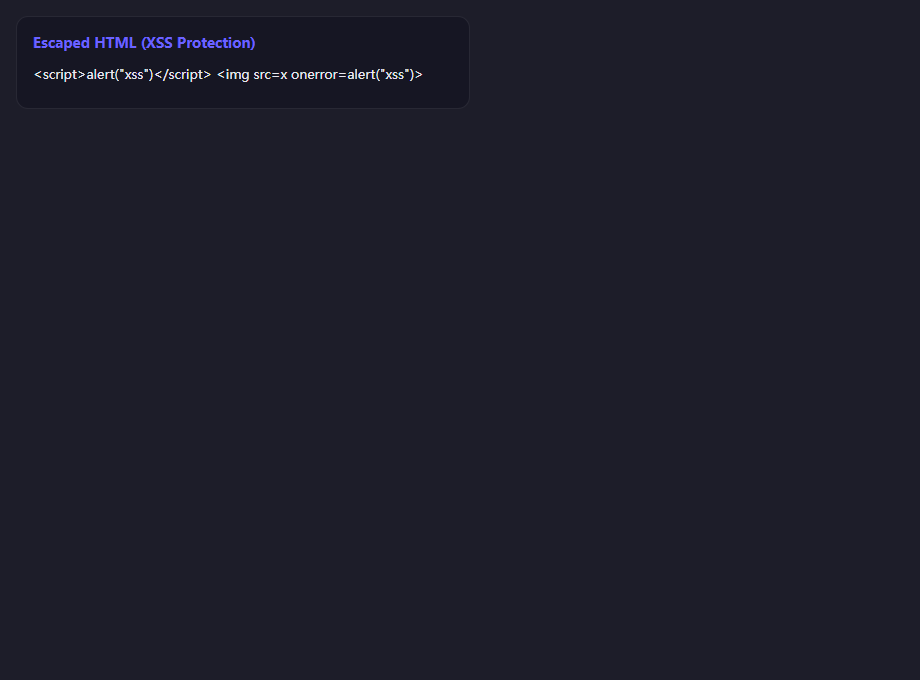
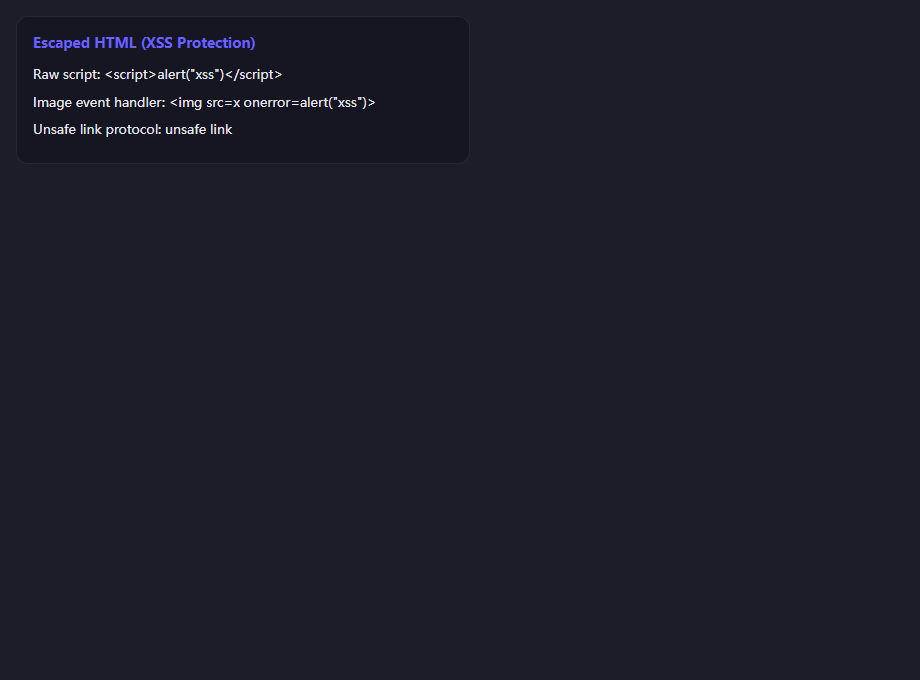
docs: refresh markdown security evidence

Changed region(s): [[0.0304, 0.0926, 0.4565, 0.2162]]

diff --git a/docs/superpowers/verification/2026-06-14-issue-2.md b/docs/superpowers/verification/2026-06-14-issue-2.md
@@ -2,7 +2,7 @@
 
 ## Status
 
-PASS WITH SCREENSHOT REFRESH CONCERN
+PASS
 
 ## TDD Evidence
 
@@ -39,10 +39,19 @@ Result: <p><span>x</span></p>
 
 | Screenshot | Dimensions | Bytes | Last modified | Description |
 | --- | --- | --- | --- | --- |
-| docs/superpowers/verification/issue-2/markdown-panel.png | 920x680 | 18497 | 2026-06-15 10:09:30 +08:00 | Existing normal markdown rendering evidence |
-| docs/superpowers/verification/issue-2/malicious-html-escaped.png | 920x680 | 10408 | 2026-06-15 10:09:30 +08:00 | Existing escaped HTML evidence |
+| docs/superpowers/verification/issue-2/markdown-panel.png | 920x680 | 18410 | 2026-06-15 15:17:38 +08:00 | Refreshed normal markdown rendering evidence |
+| docs/superpowers/verification/issue-2/malicious-html-escaped.png | 920x680 | 13834 | 2026-06-15 15:17:39 +08:00 | Refreshed escaped HTML and unsafe link evidence |
 
-The Electron capture attempt started at 2026-06-15 11:15 +08:00 but did not exit and did not update either PNG. Its isolated process tree was terminated. The capture payload now includes raw `<script>`, `<img onerror>`, and an unsafe Markdown link, but refreshed visual evidence remains outstanding.
+```
+npx electron scripts/capture-markdown-evidence.mjs
+Result: PASS, exited 0
+Saved: docs/superpowers/verification/issue-2/markdown-panel.png
+  Size: 18410 bytes, Dimensions: 920x680
+Saved: docs/superpowers/verification/issue-2/malicious-html-escaped.png
+  Size: 13834 bytes, Dimensions: 920x680
+```
+
+The malicious screenshot payload includes raw `<script>`, raw `<img onerror>`, and `[unsafe link](javascript:alert(1))`. Visual inspection confirmed the raw HTML is displayed as text and `unsafe link` is rendered as plain non-link text. The renderer probe printed `<p><span>x</span></p>`, confirming the unsafe Markdown link label remains visible without `href` or `javascript:`.
 
 ## Supported Subset Confirmed
 
@@ -62,15 +71,6 @@ The Electron capture attempt started at 2026-06-15 11:15 +08:00 but did not exit
 ## Changed Files
 
 - docs/superpowers/verification/2026-06-14-issue-2.md
-- docs/superpowers/verification/issue-2/SCREENSHOT-GUIDE.md
-- docs/superpowers/verification/issue-2/demo.html
-- docs/superpowers/verification/issue-2/full-screen.png
 - docs/superpowers/verification/issue-2/malicious-html-escaped.png
 - docs/superpowers/verification/issue-2/markdown-panel.png
 - scripts/capture-markdown-evidence.mjs
-- src/main/markdown-renderer.js
-- src/renderer/chat/style.css
-- src/renderer/floating/style.css
-- tests/chat-renderer-markdown.test.js
-- tests/floating-renderer-ui.test.js
-- tests/markdown-renderer.test.js
